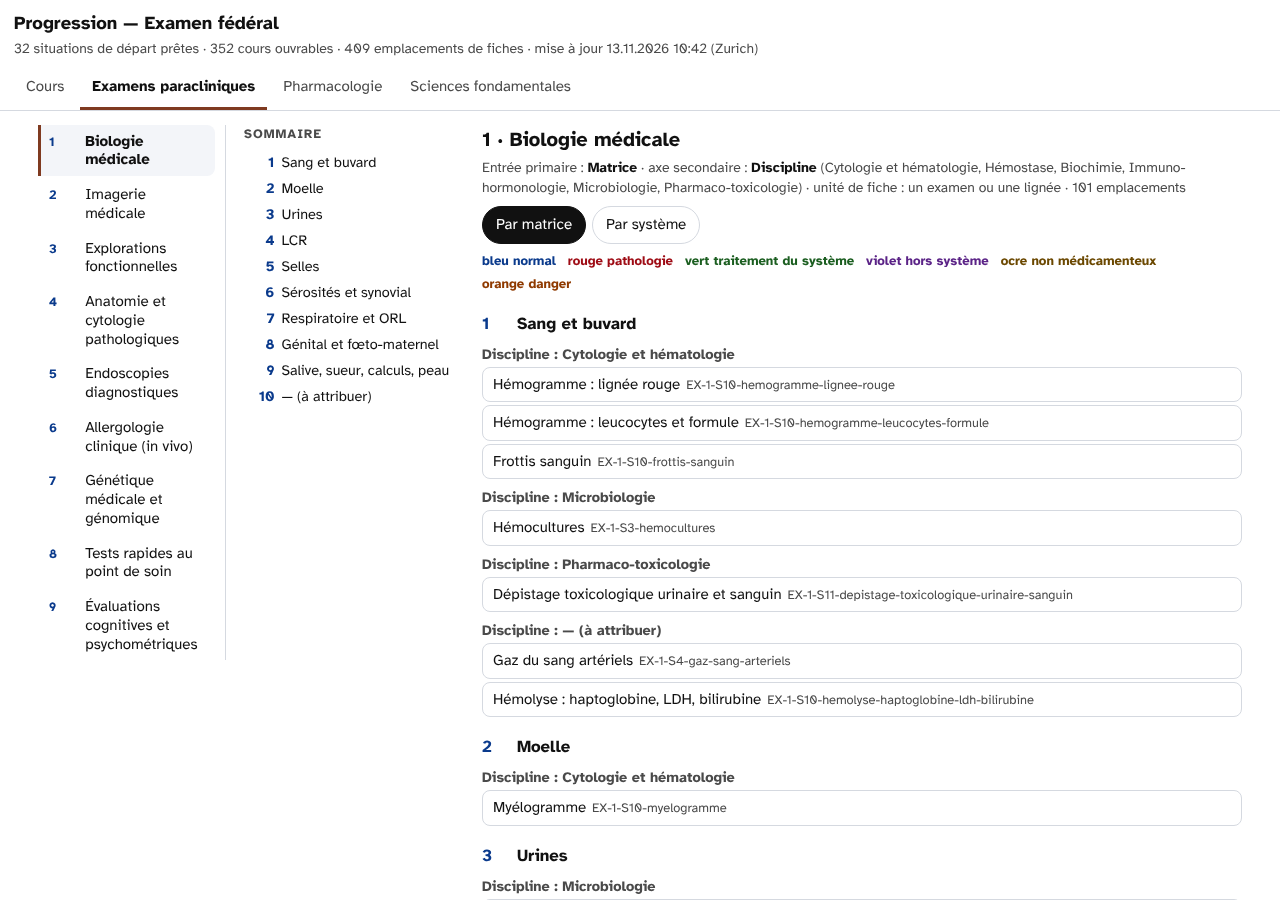
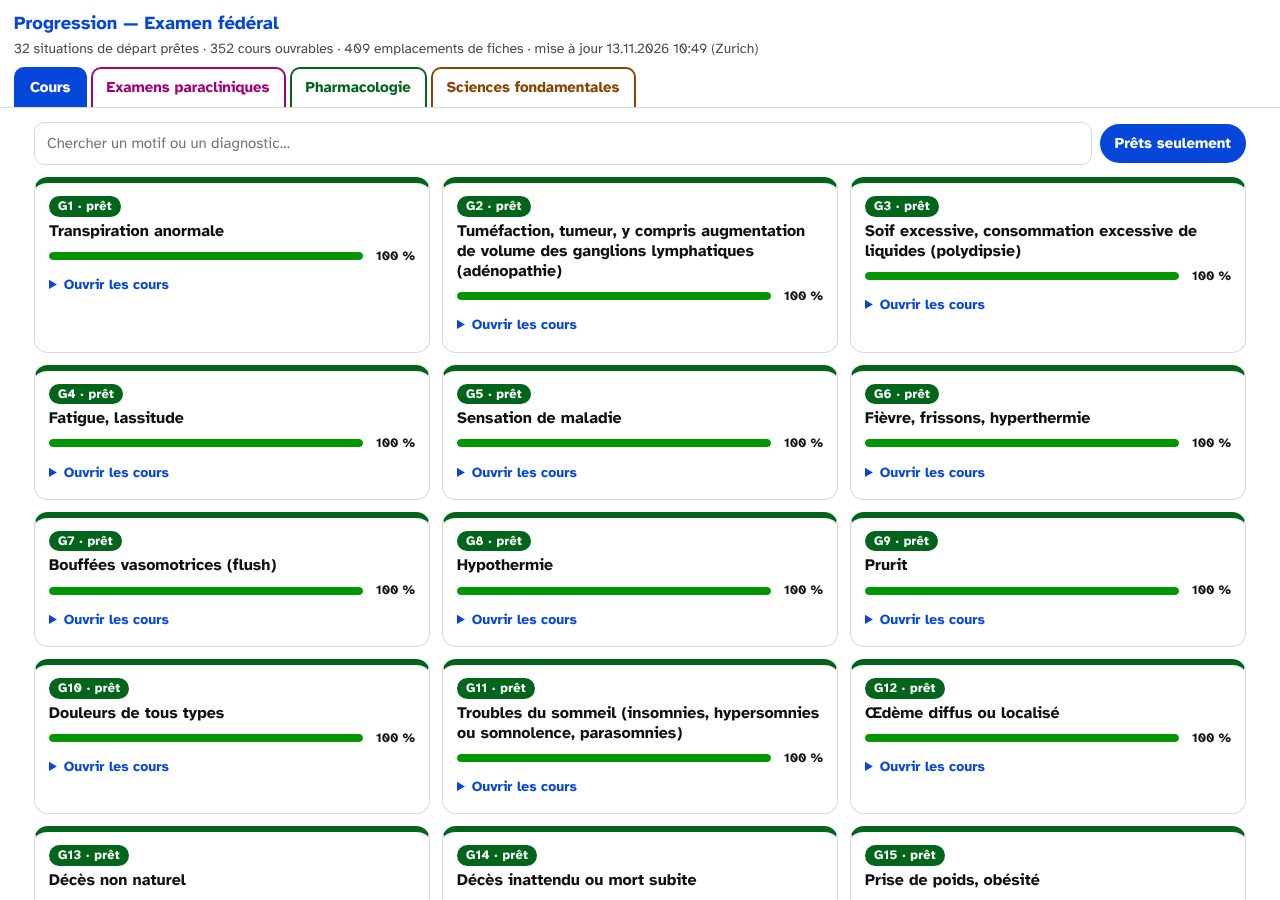
receptacle : fond blanc, couleurs vives (onglets, rail, sommaire, en-têtes, tableaux, badges), une couleur par système S1-S12+T ; contrastes >= 7:1. Prompt L1 lu et appliqué.
Claude-Session: https://claude.ai/code/session_01JErHPrLsKaTuQ8vQo4KBsh

Changed region(s): [[0.0, 0.0622, 0.9688, 1.0], [0.0, 0.0, 0.2188, 0.0311], [0.5625, 0.0311, 0.5938, 0.0622]]

diff --git a/outils/receptacle.py b/outils/receptacle.py
@@ -80,80 +80,85 @@ def progression(dossier):
 POLICE = ''.join("@font-face{font-family:'Atkinson Hyperlegible';font-style:%s;font-weight:%s;font-display:swap;src:url('BASEClaude/_polices/atkinson-hyperlegible-latin-%s-%s.woff2') format('woff2')}" % (s, w, w, s) for w in ('400', '700') for s in ('normal', 'italic'))
 
 CSS = """
-:root{--fond:#fff;--carte:#fff;--encre:#111;--doux:#4a4a4a;--trait:#d5d9e0;--piste:#e9ecf1;--acc:#7f3a20;--rouge:#9e0b14;--vert:#1b5e20;
---bleu:#0a3a8c;--violet:#5b2387;--ocre:#6b4800;--orange:#8f3a00;--survol:#f3f5f9}
+:root{--fond:#fff;--carte:#fff;--encre:#111;--doux:#4a4a4a;--trait:#d5d9e0;--piste:#e9ecf1;--acc:#0646db;--rouge:#b10521;--vert:#03651b;
+--bleu:#0646db;--violet:#7906df;--ocre:#725103;--orange:#963a04;--survol:#eaf1ff;--sc:#0646db}
+/* Couleurs vives : aplat foncé vif + texte blanc (>= 7:1, calculé) ; fonds pâles = teinte à 12 % + texte #111 ; fond de page #fff */
 *{box-sizing:border-box}html{-webkit-text-size-adjust:100%;background:#fff}body{margin:0;background:#fff;color:var(--encre);font:15px/1.45 "Atkinson Hyperlegible",Verdana,system-ui,sans-serif}
 button,input{font-family:inherit}
 header.h{position:sticky;top:0;z-index:5;background:#fff;border-bottom:1px solid var(--trait);padding:10px 14px 0}
 h1{font-size:1.15rem;margin:0 0 2px}.sous{color:var(--doux);font-size:.87rem;margin:0 0 8px}
 nav.on{display:flex;gap:4px;overflow-x:auto;scrollbar-width:none}nav.on::-webkit-scrollbar{display:none}
-nav.on button{font:inherit;border:0;background:none;color:var(--doux);padding:9px 12px;border-bottom:3px solid transparent;white-space:nowrap;cursor:pointer}
-nav.on button.a{color:var(--encre);font-weight:700;border-color:var(--acc)}
+nav.on button{font:inherit;font-weight:700;border:2px solid var(--tc);background:#fff;color:var(--tc);padding:8px 14px;border-radius:10px 10px 0 0;border-bottom:0;white-space:nowrap;cursor:pointer}
+nav.on button.a{background:var(--tc);color:#fff}
+header.h h1{color:var(--bleu)}
+/* aplats vifs, texte blanc */
+.badge,.pu.a,.c .code{background:var(--bleu);color:#fff}
 main{max-width:1240px;margin:0 auto;padding:14px}
 section.p{display:none}section.p.a{display:block}
 .barre{display:flex;gap:8px;flex-wrap:wrap;align-items:center;margin:0 0 12px}
 .barre input{flex:1 1 220px;font:inherit;padding:10px 12px;border:1px solid var(--trait);border-radius:10px;background:#fff}
-.pu{font:inherit;border:1px solid var(--trait);background:#fff;border-radius:999px;padding:7px 13px;cursor:pointer;color:var(--encre)}.pu.a{background:var(--encre);color:#fff;border-color:var(--encre)}
+.pu{font:inherit;border:1px solid var(--trait);background:#fff;border-radius:999px;padding:7px 13px;cursor:pointer;color:var(--encre)}.pu{border:2px solid var(--bleu);color:var(--bleu);font-weight:700}.pu.a{background:var(--bleu);color:#fff;border-color:var(--bleu)}
 .grille{display:grid;grid-template-columns:repeat(auto-fill,minmax(300px,1fr));gap:12px}
-.c{background:#fff;border:1px solid var(--trait);border-radius:14px;padding:12px 14px}
-.c h2{font-size:1rem;margin:0 0 2px;line-height:1.25}.c .code{color:var(--doux);font-size:.8rem;font-weight:700;letter-spacing:.02em}
-.c.pret{border-left:5px solid var(--vert)}
+.c{background:#fff;border:1px solid var(--trait);border-top:6px solid var(--bleu);border-radius:14px;padding:12px 14px}
+.c h2{font-size:1rem;margin:0 0 2px;line-height:1.25}.c .code{display:inline-block;padding:1px 9px;border-radius:99px;font-size:.8rem;font-weight:700;letter-spacing:.02em;margin-bottom:4px}
+.c.pret{border-top-color:var(--vert)}.c.pret .code{background:var(--vert)}
 .j{display:grid;grid-template-columns:1fr 44px;align-items:center;gap:8px;margin:6px 0}.j span{font-size:.8rem;font-weight:700;text-align:right}
-.t{height:8px;background:var(--piste);border-radius:99px;overflow:hidden}.f{height:100%;width:var(--p);border-radius:inherit;background:hsl(var(--h) 60% 34%)}
-details summary{cursor:pointer;color:var(--doux);font-size:.87rem;padding:4px 0}
+.t{height:8px;background:var(--piste);border-radius:99px;overflow:hidden}.f{height:100%;width:var(--p);border-radius:inherit;background:hsl(var(--h) 95% 30%)}
+details summary{cursor:pointer;color:var(--bleu);font-weight:700;font-size:.87rem;padding:4px 0}
 .ls{list-style:none;margin:6px 0 0;padding:0;display:grid;gap:2px}
 .ls a,.ls span{display:flex;gap:8px;align-items:baseline;padding:8px 8px;border-radius:8px;text-decoration:none;color:var(--encre);font-size:.93rem;line-height:1.3}
-.ls a{background:#fff;border:1px solid var(--trait)}.ls a:active,.ls a:hover{background:var(--survol)}.ls span{color:var(--doux)}
+.ls a{background:#fff;border:1px solid var(--trait);border-left:5px solid var(--vert)}.ls a:active,.ls a:hover{background:var(--survol)}.ls span{color:var(--doux)}
 .ls .g{color:var(--rouge);font-weight:700;flex:none}.ls .mono{font-weight:700}
 .vide{color:var(--doux);font-size:.93rem;padding:4px 0;margin:0}
 #vue{position:fixed;inset:0;z-index:20;background:#fff;display:none;flex-direction:column}#vue.a{display:flex}
 #vue .tete{display:flex;gap:6px;align-items:center;padding:6px 8px;border-bottom:1px solid var(--trait);background:#fff}
 #vue .tete b{flex:1;min-width:0;font-size:.87rem;line-height:1.2;overflow:hidden;display:-webkit-box;-webkit-line-clamp:2;-webkit-box-orient:vertical}
 #vue .tete small{display:block;color:var(--doux);font-weight:400}
-#vue button,#vue a.x{font:inherit;border:1px solid var(--trait);background:#fff;border-radius:9px;padding:8px 11px;cursor:pointer;color:var(--encre);text-decoration:none;flex:none}
+#vue button,#vue a.x{font:inherit;border:2px solid var(--bleu);background:var(--bleu);color:#fff!important;border-radius:9px;padding:8px 11px;cursor:pointer;text-decoration:none;flex:none}
 #vue iframe{flex:1;border:0;width:100%}
 /* ----- Modules : rail vertical + sommaire latéral numéroté + colonne ≤ 760 px ----- */
 .mod{display:grid;grid-template-columns:188px 220px minmax(0,760px);gap:18px;justify-content:center;align-items:start}
 .rail,.somm{position:sticky;top:96px;max-height:calc(100vh - 110px);overflow:auto}
-.rail{display:flex;flex-direction:column;gap:2px;border-right:1px solid var(--trait);padding-right:10px}
-.rail button{font:inherit;text-align:left;border:0;border-left:3px solid transparent;background:#fff;color:var(--encre);padding:7px 8px;cursor:pointer;display:flex;gap:8px;align-items:baseline;border-radius:0 8px 8px 0;line-height:1.25}
-.rail button b{flex:0 0 auto;min-width:2.2em;font-size:.8rem;color:var(--bleu)}.rail button.a{border-left-color:var(--acc);background:var(--survol);font-weight:700}
-.somm{font-size:.9rem}.somm p{margin:0 0 6px;font-weight:700;color:var(--doux);font-size:.8rem;text-transform:uppercase;letter-spacing:.08em}
+.rail{display:flex;flex-direction:column;gap:3px;border-right:3px solid var(--trait);padding-right:10px}
+.rail button{font:inherit;text-align:left;border:0;border-left:6px solid var(--sc);background:#fff;color:var(--encre);padding:7px 8px;cursor:pointer;display:flex;gap:8px;align-items:baseline;border-radius:0 8px 8px 0;line-height:1.25}
+.rail button b{flex:0 0 auto;min-width:2.4em;text-align:center;font-size:.8rem;color:#fff;background:var(--sc);border-radius:6px;padding:1px 4px}.rail button.a{background:var(--sc);color:#fff;font-weight:700}.rail button.a b{background:#fff;color:var(--sc)}
+.somm{font-size:.9rem}.somm p{margin:0 0 6px;font-weight:700;color:#fff;background:var(--sc);padding:3px 8px;border-radius:6px;font-size:.8rem;text-transform:uppercase;letter-spacing:.08em}
 .somm ol{margin:0;padding:0;list-style:none;counter-reset:s}.somm li{counter-increment:s}
-.somm a{display:flex;gap:7px;padding:4px 6px;border-radius:6px;color:var(--encre);text-decoration:none;line-height:1.25}.somm a::before{content:counter(s);flex:0 0 1.7em;text-align:right;font-weight:700;color:var(--bleu)}
+.somm a{display:flex;gap:7px;padding:4px 6px;border-radius:6px;color:var(--encre);text-decoration:none;line-height:1.25}.somm a::before{content:counter(s);flex:0 0 1.7em;text-align:right;font-weight:700;color:#fff;background:var(--sc);border-radius:5px;padding:0 3px;align-self:flex-start}
 .somm a:hover{background:var(--survol)}
-.col{min-width:0;max-width:760px}.col h2{font-size:1.25rem;margin:0 0 4px}.col h3{font-size:1.05rem;margin:18px 0 6px;display:flex;gap:8px;align-items:baseline}
-.col h3 .num{color:var(--bleu);min-width:1.6em}.col h4{font-size:.9rem;margin:8px 0 2px;color:var(--doux)}
+.col{min-width:0;max-width:760px}.col h2{font-size:1.25rem;margin:0 0 6px;background:var(--sc);color:#fff;padding:8px 12px;border-radius:10px}.col h3{background:color-mix(in srgb,var(--sc) 12%,#fff);border-left:6px solid var(--sc);padding:5px 8px;border-radius:0 8px 8px 0}.col h3{font-size:1.05rem;margin:18px 0 6px;display:flex;gap:8px;align-items:baseline}
+.col h3 .num{color:#fff;background:var(--sc);border-radius:6px;text-align:center;min-width:1.8em;padding:0 4px}.col h4{font-size:.9rem;margin:8px 0 2px;color:var(--sc)}
 .meta{color:var(--doux);font-size:.87rem;margin:0 0 8px}.meta b{color:var(--encre)}
 .bas{display:flex;gap:6px;flex-wrap:wrap;margin:8px 0}
 .lf{list-style:none;margin:0;padding:0;display:grid;gap:3px}
 .lf button,.lien{font:inherit;text-align:left;width:100%;border:1px solid var(--trait);background:#fff;border-radius:8px;padding:7px 10px;cursor:pointer;color:var(--encre);line-height:1.3}
-.lf button:hover,.lien:hover{background:var(--survol)}.lf small,.lien small{color:var(--doux);font-size:.8rem;margin-left:6px;overflow-wrap:anywhere}
+.lf button{border-left:6px solid var(--sc)}.lf button:hover,.lien:hover{background:color-mix(in srgb,var(--sc) 14%,#fff)}.lf small,.lien small{color:var(--doux);font-size:.8rem;margin-left:6px;overflow-wrap:anywhere}
 .lien{display:inline;width:auto;padding:1px 6px;border-radius:6px}
-.etq{font-size:.78rem;border:1px solid var(--trait);border-radius:99px;padding:0 6px;margin-left:4px;color:var(--doux)}
+.etq{font-size:.78rem;background:var(--orange);color:#fff;border-radius:99px;padding:0 7px;margin-left:4px;font-weight:700}
 /* Couleurs à sens fixe (partie 0.6) */
 .c-bleu{color:var(--bleu)!important}.c-rouge{color:var(--rouge)!important}.c-vert{color:var(--vert)!important}.c-violet{color:var(--violet)!important}.c-ocre{color:var(--ocre)!important}.c-orange{color:var(--orange)!important}
-.k-bleu{border-left:4px solid var(--bleu)!important}.k-rouge{border-left:4px solid var(--rouge)!important}.k-vert{border-left:4px solid var(--vert)!important}.k-violet{border-left:4px solid var(--violet)!important}.k-ocre{border-left:4px solid var(--ocre)!important}.k-orange{border-left:4px solid var(--orange)!important}
-.legende{display:flex;flex-wrap:wrap;gap:4px 12px;font-size:.82rem;margin:0 0 10px}.legende span{font-weight:700}
-.chaine{display:flex;flex-wrap:wrap;gap:4px;align-items:center;margin:6px 0 10px;font-size:.87rem}.chaine span{border:1px solid var(--trait);border-radius:8px;padding:3px 8px;font-weight:700}
+.k-bleu{border-left:8px solid var(--bleu)!important;background:color-mix(in srgb,var(--bleu) 12%,#fff)}.k-rouge{border-left:8px solid var(--rouge)!important;background:color-mix(in srgb,var(--rouge) 12%,#fff)}.k-vert{border-left:8px solid var(--vert)!important;background:color-mix(in srgb,var(--vert) 12%,#fff)}.k-violet{border-left:8px solid var(--violet)!important;background:color-mix(in srgb,var(--violet) 12%,#fff)}.k-ocre{border-left:8px solid var(--ocre)!important;background:color-mix(in srgb,var(--ocre) 12%,#fff)}.k-orange{border-left:8px solid var(--orange)!important;background:color-mix(in srgb,var(--orange) 12%,#fff)}
+.legende{display:flex;flex-wrap:wrap;gap:4px 12px;font-size:.82rem;margin:0 0 10px}.legende span{font-weight:700;color:#fff!important;padding:1px 9px;border-radius:99px}.legende .c-bleu{background:var(--bleu)}.legende .c-rouge{background:var(--rouge)}.legende .c-vert{background:var(--vert)}.legende .c-violet{background:var(--violet)}.legende .c-ocre{background:var(--ocre)}.legende .c-orange{background:var(--orange)}
+.chaine{display:flex;flex-wrap:wrap;gap:4px;align-items:center;margin:6px 0 10px;font-size:.87rem}.chaine span{border-radius:8px;padding:3px 9px;font-weight:700;color:#fff!important}.chaine .c-bleu{background:var(--bleu)}.chaine .c-rouge{background:var(--rouge)}.chaine .c-vert{background:var(--vert)}.chaine .c-violet{background:var(--violet)}.chaine .c-ocre{background:var(--ocre)}.chaine .c-orange{background:var(--orange)}
 .lp{display:grid;grid-template-columns:minmax(0,1fr) auto minmax(0,1fr);gap:8px;align-items:start;margin:6px 0}
 .lp>.fl{font-weight:700;color:var(--rouge);padding-top:6px}.barre-t{display:grid;gap:3px}
-.barre-t>*{font:inherit;font-size:.88rem;text-align:left;border:1px solid var(--trait);background:#fff;border-radius:6px;padding:4px 8px;cursor:help}.barre-t button{cursor:pointer}
-.bande{border:1px solid var(--trait);border-radius:10px;padding:8px 10px;margin:8px 0}
+.barre-t>*{font:inherit;font-size:.88rem;text-align:left;color:var(--encre);border:1px solid var(--trait);border-radius:6px;padding:4px 8px;cursor:help}.barre-t button{cursor:pointer}
+.bande{border:1px solid var(--trait);border-top:4px solid var(--vert);border-radius:10px;padding:8px 10px;margin:8px 0}
 .bande>button{font:inherit;font-weight:700;border:0;background:none;padding:0;cursor:pointer;color:var(--encre);text-align:left}
 /* Fenêtre unique, occultante */
 #fen{position:fixed;inset:0;z-index:30;background:rgba(10,12,16,.62);display:none;align-items:flex-start;justify-content:center;padding:4vh 12px;overflow:auto}#fen.a{display:flex}
-#fen .fc{background:#fff;color:var(--encre);width:100%;max-width:760px;border-radius:14px;padding:16px 18px 22px;border-top:5px solid var(--acc)}
-#fen .ft{display:flex;gap:8px;align-items:flex-start}#fen .ft h3{flex:1;margin:0;font-size:1.15rem}
-#fen .x{font:inherit;border:1px solid var(--trait);background:#fff;border-radius:8px;padding:4px 10px;cursor:pointer}
-#fen h4{margin:14px 0 4px;font-size:.98rem;padding-left:8px;border-left:4px solid var(--trait)}
+#fen .fc{background:#fff;color:var(--encre);width:100%;max-width:760px;border-radius:14px;padding:16px 18px 22px;border-top:10px solid var(--sc)}
+#fen .ft{display:flex;gap:8px;align-items:flex-start}#fen .ft h3{flex:1;margin:0;font-size:1.15rem;color:#fff;background:var(--sc);padding:8px 12px;border-radius:10px}
+#fen .x{font:inherit;border:2px solid var(--sc);background:#fff;color:var(--sc);font-weight:700;border-radius:8px;padding:4px 10px;cursor:pointer}
+#fen h4{margin:14px 0 4px;font-size:.98rem;padding:4px 8px;border-left:8px solid var(--sc);background:color-mix(in srgb,var(--sc) 12%,#fff);color:var(--encre)}
+#fen h4[class*=k-]{color:#fff!important;background:var(--sc)}#fen h4.k-bleu{background:var(--bleu)}#fen h4.k-rouge{background:var(--rouge)}#fen h4.k-vert{background:var(--vert)}#fen h4.k-violet{background:var(--violet)}#fen h4.k-ocre{background:var(--ocre)}#fen h4.k-orange{background:var(--orange)}
 #fen table{border-collapse:collapse;width:100%;font-size:.88rem;margin:2px 0}#fen td,#fen th{border:1px solid var(--trait);padding:5px 6px;vertical-align:top;text-align:left}
-#fen th{background:var(--survol);font-weight:700}#fen td.l{width:38%;color:var(--doux)}#fen ul{margin:2px 0;padding-left:1.2em}
+#fen th{background:var(--sc);color:#fff!important;font-weight:700}#fen th.c-bleu{background:var(--bleu)}#fen th.c-rouge{background:var(--rouge)}#fen th.c-vert{background:var(--vert)}#fen th.c-violet{background:var(--violet)}#fen th.c-ocre{background:var(--ocre)}#fen th.c-orange{background:var(--orange)}#fen td.l{width:38%;color:var(--encre);font-weight:700;background:color-mix(in srgb,var(--sc) 10%,#fff)}#fen td.l.c-bleu{color:var(--bleu)!important}#fen ul{margin:2px 0;padding-left:1.2em}
 .tw{overflow-x:auto}
 @media(max-width:900px){.mod{grid-template-columns:minmax(0,1fr);gap:8px}
  .rail,.somm{position:static;max-height:none}.rail{flex-direction:row;overflow-x:auto;border-right:0;border-bottom:1px solid var(--trait);padding:0 0 4px}
- .rail button{white-space:nowrap;border-left:0;border-bottom:3px solid transparent;border-radius:6px 6px 0 0}.rail button.a{border-bottom-color:var(--acc)}
- .somm ol{display:flex;gap:4px;overflow-x:auto;padding-bottom:4px}.somm a{white-space:nowrap;border:1px solid var(--trait)}
+ .rail button{white-space:nowrap;border-left:0;border-bottom:6px solid var(--sc);border-radius:6px 6px 0 0}.rail button.a{border-bottom-color:var(--sc)}
+ .somm ol{display:flex;gap:4px;overflow-x:auto;padding-bottom:4px}.somm a{white-space:nowrap}
  .lp{grid-template-columns:minmax(0,1fr)}.lp>.fl{display:none}}
 @media(max-width:520px){main{padding:10px}.grille{grid-template-columns:1fr}}
 """
@@ -209,6 +214,8 @@ const LBL={nom_exact:'Nom exact',synonymes:'Synonymes',prelevement_conditions:'P
 const COUL={normal:'bleu',trajet:'bleu',stations:'bleu',structure_fonction:'bleu',temps2_examen:'bleu',pathologies:'rouge',vite_dit_cafe:'rouge',si_dereglement:'rouge',anomalie:'rouge',criteres_cim10:'rouge',
  systeme:'vert',classes:'vert',bandes:'vert',pharmacologie_psychiatrique:'vert',hors_systeme:'violet',hors_psychiatrie:'violet',non_medicamenteux:'ocre',psychotherapies_mesures:'ocre',mesures_legales_sociales:'ocre',
  ne_pas_demander:'orange',seuil_alerte:'orange',annexeA_pieges:'orange',pieges:'orange'};
+const SC={S1:'#2c2cff',S2:'#a5007c',S3:'#005f72',S4:'#4d5d00',S5:'#b20000',S6:'#006532',S7:'#9400b1',S8:'#894400',S9:'#005999',S10:'#ae0049',S11:'#a42900',S12:'#6a5500',T:'#006352'};
+const coulN=n=>Object.values(SC)[(n-1)%13];
 const lbl=k=>LBL[k]||(k.charAt(0).toUpperCase()+k.slice(1)).replace(/_/g,' ');
 const lienF=id=>F[id]?'<button type="button" class="lien" data-f="'+esc(id)+'">'+esc(fi(id).titre)+'<small>'+esc(id)+'</small></button>':esc(id);
 function val(v,k,t2){
@@ -238,7 +245,7 @@ function rendreFiche(id){const f=fi(id);if(!f)return '<p class="vide">Identifian
   h+='<h4>Annexe B · Passerelles</h4>'+(f.passerelles.length?'<div class="tw"><table><tr><th>Type</th><th>Fiche cible</th><th>Pourquoi</th></tr>'+f.passerelles.map(p=>'<tr><td>'+esc(p.type)+'</td><td>'+lienF(p.cible)+'</td><td>'+esc(p.pourquoi)+'</td></tr>').join('')+'</table></div>':'<p class="vide">—</p>');
   return h;}
 /* Une seule fenêtre ouverte : ouvrir une fiche remplace la précédente. */
-function ouvrirF(id){const f=fi(id);if(!f)return;$('#fen .ft h3').textContent=f.titre;$('#fen .fb').innerHTML=rendreFiche(id);$('#fen').classList.add('a');$('#fen').scrollTop=0;
+function ouvrirF(id){const f=fi(id);if(!f)return;$('#fen .ft h3').textContent=f.titre;$('#fen .fb').innerHTML=rendreFiche(id);$('#fen .fc').style.setProperty('--sc',SC[f.systeme]||'#0646db');$('#fen').classList.add('a');$('#fen').scrollTop=0;
   document.body.style.overflow='hidden';history.replaceState(null,'','#f='+encodeURIComponent(id));$('#fen .x').focus();}
 function fermerF(){$('#fen').classList.remove('a');document.body.style.overflow='';const o=$('nav.on button.a');history.replaceState(null,'','#'+(o?o.dataset.o:''));}
 $('#fen').onclick=e=>{if(e.target.id==='fen'||e.target.closest('#fen .x'))fermerF()};
@@ -250,8 +257,8 @@ const nomSys=c=>(S.systemes.find(s=>s.code===c)||{}).nom||c;
 const LEG='<div class="legende"><span class="c-bleu">bleu normal</span><span class="c-rouge">rouge pathologie</span><span class="c-vert">vert traitement du système</span><span class="c-violet">violet hors système</span><span class="c-ocre">ocre non médicamenteux</span><span class="c-orange">orange danger</span></div>';
 /* Gabarit commun : rail (racine) → sommaire numéroté → colonne. */
 function module(sel,rail,corps){const el=$(sel);
-  el.innerHTML='<div class="mod"><nav class="rail" aria-label="Rail">'+rail.map((r,i)=>'<button type="button" data-r="'+i+'"><b>'+esc(r.n)+'</b><span>'+esc(r.t)+'</span></button>').join('')+'</nav><nav class="somm" aria-label="Sommaire"><p>Sommaire</p><ol></ol></nav><div class="col"></div></div>';
-  const montrer=(i,opt)=>{$$('.rail button',el).forEach(b=>b.classList.toggle('a',+b.dataset.r===i));const r=corps(i,opt||{});$('.col',el).innerHTML=r.h;
+  el.innerHTML='<div class="mod"><nav class="rail" aria-label="Rail">'+rail.map((r,i)=>'<button type="button" data-r="'+i+'" style="--sc:'+(SC[r.n]||coulN(r.n))+'"><b>'+esc(r.n)+'</b><span>'+esc(r.t)+'</span></button>').join('')+'</nav><nav class="somm" aria-label="Sommaire"><p>Sommaire</p><ol></ol></nav><div class="col"></div></div>';
+  const montrer=(i,opt)=>{$$('.rail button',el).forEach(b=>b.classList.toggle('a',+b.dataset.r===i));const r=corps(i,opt||{});$('.col',el).innerHTML=r.h;el.style.setProperty('--sc',SC[rail[i].n]||coulN(rail[i].n));
     $('.somm ol',el).innerHTML=r.s.map(([id,t])=>'<li><a href="#'+id+'" data-s="'+id+'">'+esc(t)+'</a></li>').join('');el.dataset.i=i;};
   el.addEventListener('click',e=>{const r=e.target.closest('.rail button');if(r)return montrer(+r.dataset.r);
     const s=e.target.closest('[data-s]');if(s){e.preventDefault();const c=document.getElementById(s.dataset.s);if(c)c.scrollIntoView({block:'start'});return}
@@ -343,7 +350,7 @@ def rendre(a):
     doc = f'''<!DOCTYPE html><html lang="fr"><head><meta charset="utf-8"><meta name="viewport" content="width=device-width,initial-scale=1">
 <title>Progression — Examen fédéral de médecine humaine</title><style>{POLICE.replace('BASE', a.base)}{CSS}</style></head><body>
 <header class="h"><h1>Progression — Examen fédéral</h1><p class="sous">{len(prets)} situations de départ prêtes · {n_cours} cours ouvrables · {n_empl} emplacements de fiches · mise à jour {maj} (Zurich)</p>
-<nav class="on"><button data-o="cours" class="a">Cours</button><button data-o="examens">Examens paracliniques</button><button data-o="pharmaco">Pharmacologie</button><button data-o="fondamentales">Sciences fondamentales</button></nav></header>
+<nav class="on"><button data-o="cours" class="a" style="--tc:#0646db">Cours</button><button data-o="examens" style="--tc:#a5007c">Examens paracliniques</button><button data-o="pharmaco" style="--tc:#03651b">Pharmacologie</button><button data-o="fondamentales" style="--tc:#894400">Sciences fondamentales</button></nav></header>
 <main>
 <section class="p a" id="p-cours">
 <div class="barre"><input id="q" type="search" placeholder="Chercher un motif ou un diagnostic…" aria-label="Chercher"><button class="pu a" id="fp" type="button">Prêts seulement</button></div>

diff --git a/Claude/_progression/BRIEF_PROGRESSION.md b/Claude/_progression/BRIEF_PROGRESSION.md
@@ -20,7 +20,7 @@ termes discriminants en gras. N'invente aucun code CIM-10.
 0.5 Sources suisses d'abord : AIPS Swissmedic, puis sociétés et hôpitaux universitaires suisses, puis européennes
 (signalées). « Selon X » seulement si la page de X a été lue ; sinon « (non vérifié CH) ».
 0.6 Forme : Atkinson Hyperlegible, ≈ 15 px, colonne ≤ 760 px, une seule fenêtre ouverte, contraste ≥ 7:1,
-**fond blanc** (`python3 Claude/_outils/restaurer_fond.py --verifier <html>`). Couleurs à sens fixe :
+**fond blanc, couleur vive partout ailleurs (aplats foncés vifs + texte blanc, contraste ≥ 7:1 ; un système = une couleur)** (`python3 Claude/_outils/restaurer_fond.py --verifier <html>`). Couleurs à sens fixe :
 bleu normal · rouge pathologie · vert traitement du système · violet hors système · ocre non médicamenteux · orange danger.
 
 **AIPS (posologie, grossesse, allaitement, contre-indications)**
